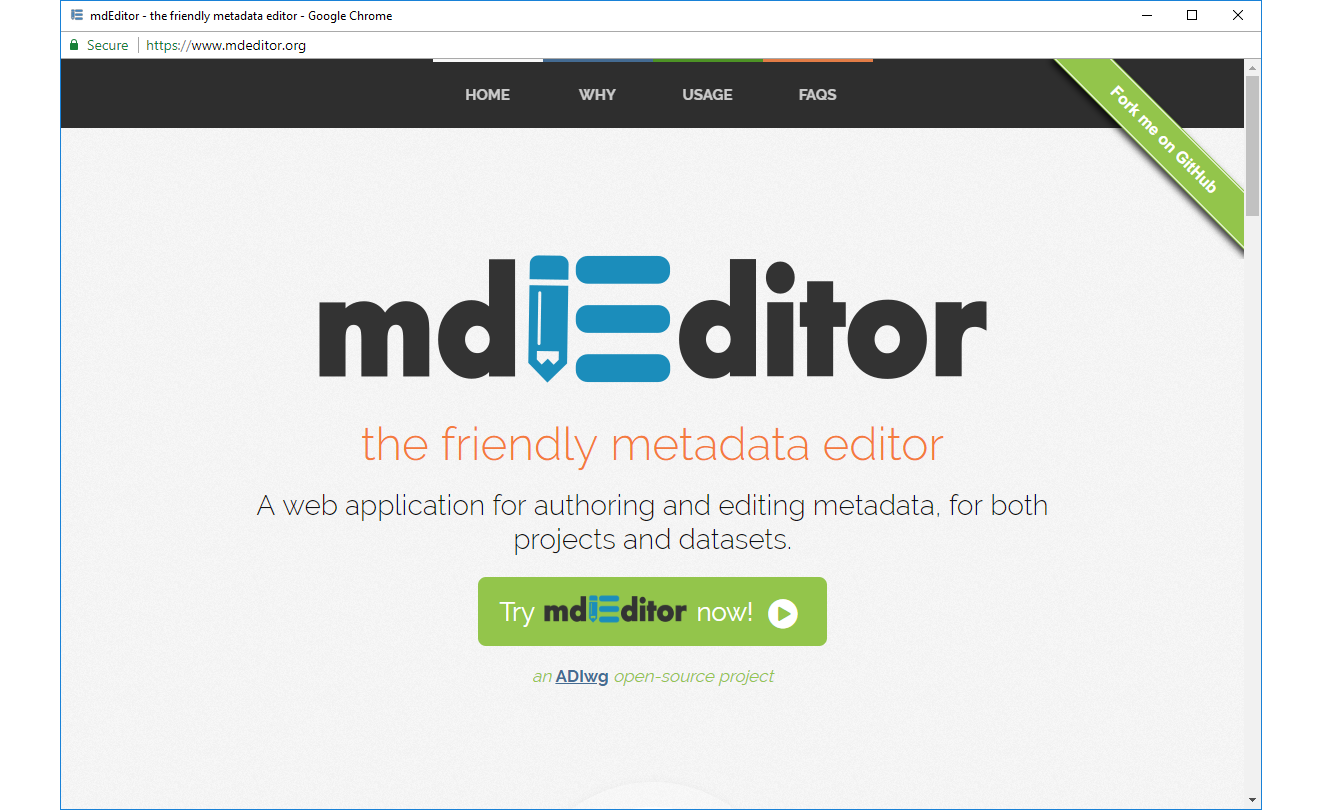
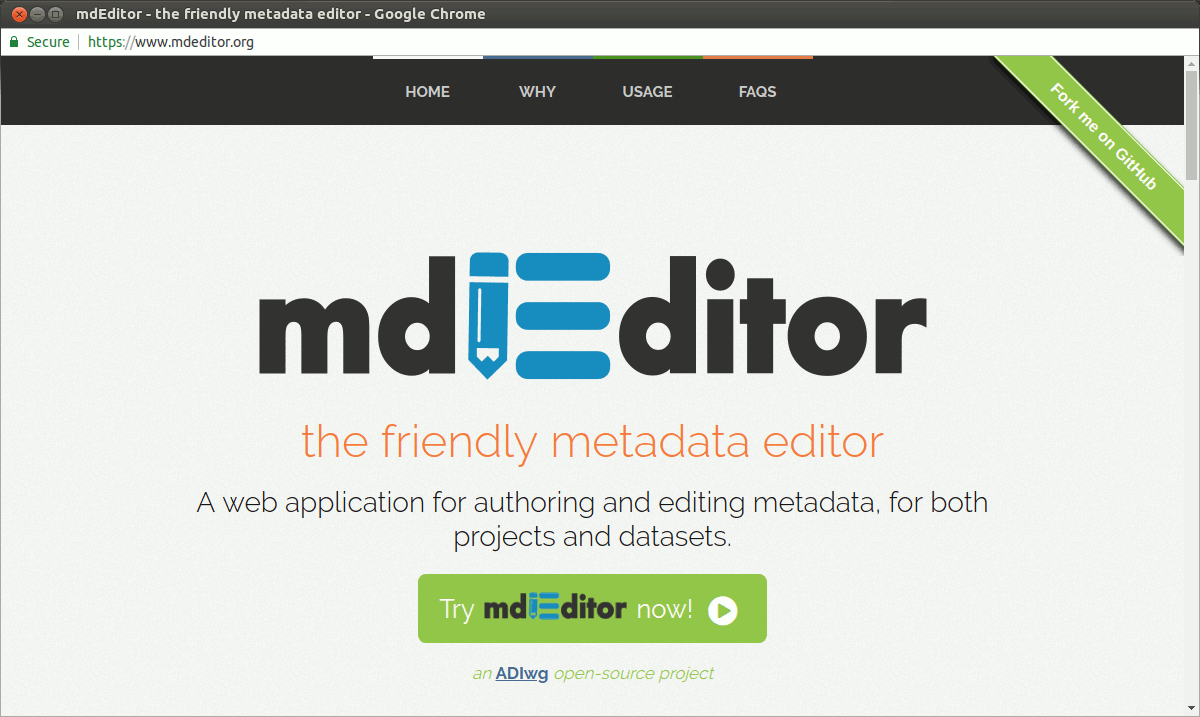
Update styles
Add screenshot class to figures.
Add border class for figure images.

diff --git a/styles/main.scss b/styles/main.scss
@@ -40,6 +40,15 @@ $glossary-text: #444;
     margin: 1.5em 0;
     padding: 10px 0;
     text-align: center;
+
+    &.screenshot {
+      padding-left: 10px;
+      padding-right: 10px;
+    }
+
+    img.border {
+      border: 1px solid $brand-info;
+    }
   }
 
   figcaption {

diff --git a/getting-started/starting-up-mdeditor.md b/getting-started/starting-up-mdeditor.md
@@ -14,13 +14,13 @@ You may use the recent version of most any internet browser that supports [HTML5
 
 Open your browser and point it to [https://www.mdEditor.org](https://www.mdEditor.org). This will bring you to the mdEditor home page shown below. The home page offers a brief orientation to mdEditor as well as links to important supporting resources and other propaganda; and most importantly, a link to load mdEditor.  Click the big green button labeled <span class="btn btn-success">Try mdEditor now</span>.
 
-![The mdEditor homepage.](/assets/get-started/homepage.png){caption}
+![The mdEditor homepage.](/assets/get-started/homepage.png){caption class=border}
 
 ### 3. Open mdEditor
 
 You should now see the Dashboard of mdEditor.  This is the starting point in mdEditor for launching all tasks.  This is where you will start from each time you launch mdEditor.  What you actually see could look differently depending on your choice of browser and device.  Since mdEditor is smart enough to reconfigure the display based on available visual space, it will appear quiet differently on your mobile device than on your large work place monitor.  However, don't take this as a recommendation to edit metadata from your mobile phone.
 
-![The dashboard view.](/assets/get-started/dashboard.png){caption}
+![The dashboard view.](/assets/get-started/dashboard.png){caption class=border}
 
 Notice that the left sidebar lists the metadata records, contacts, and data dictionaries currently loaded into your browser cache.  These will be _your_ records and so will be different from those pictured in the screen shot.
 

diff --git a/getting-started/simple-metadata-record.md b/getting-started/simple-metadata-record.md
@@ -4,7 +4,7 @@ In this section we will step through creating a simple metadata record.  Admitte
 
 You should see something like this ...
 
-![](/assets/get-started/dashboard-empty.png)
+![Dashboard view with no records.](/assets/get-started/dashboard-empty.png){caption class=border}
 
 Notice that there are three blocks at the top of the Dashboard labeled 'Records', 'Contacts', and 'Dictionaries'.  These are the different object types we can create and link together using mdEditor.  The blocks tell us that we have exactly zero (0) objects of these types created and loaded into browser cache at the moment.  
 
